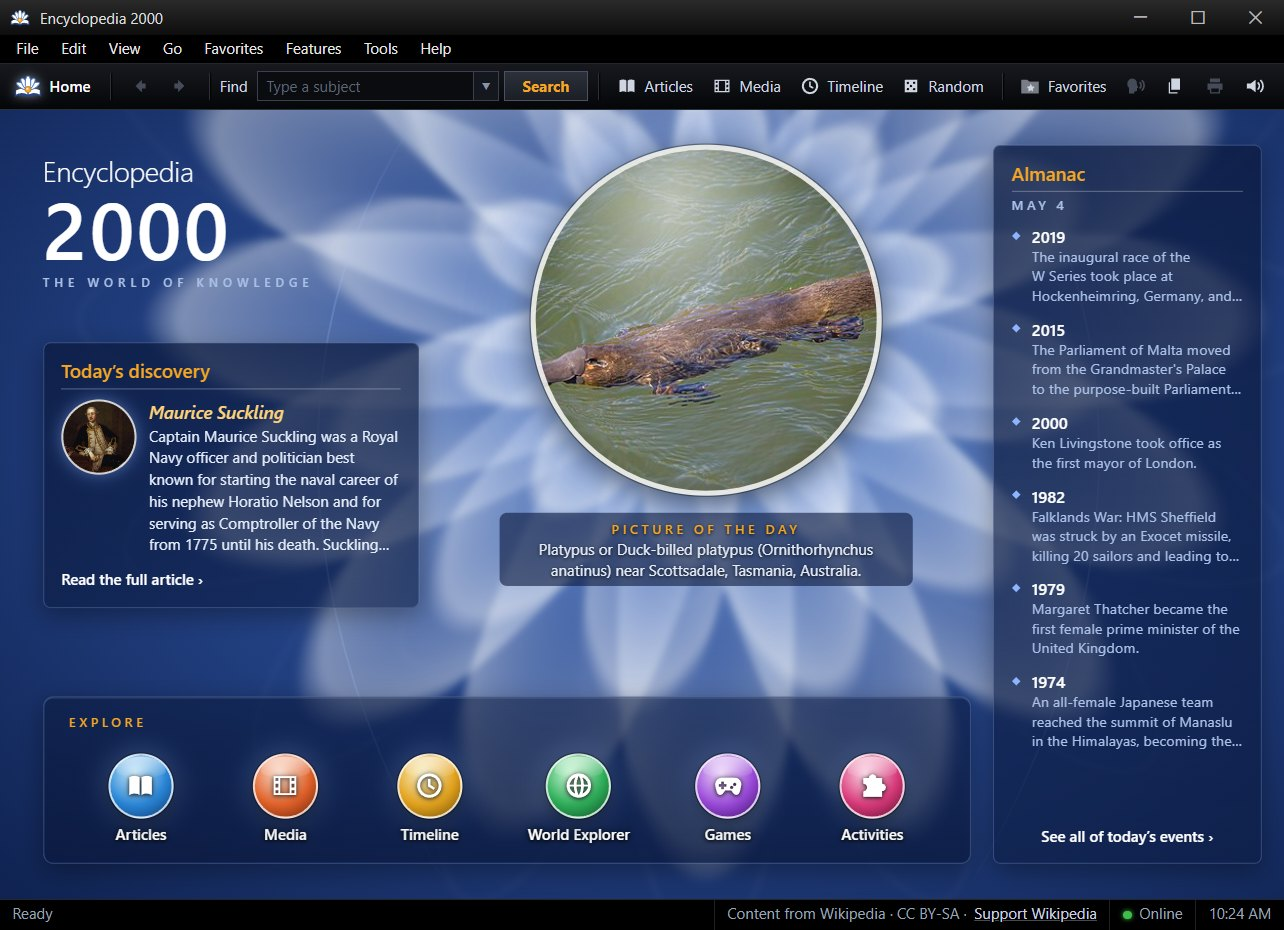
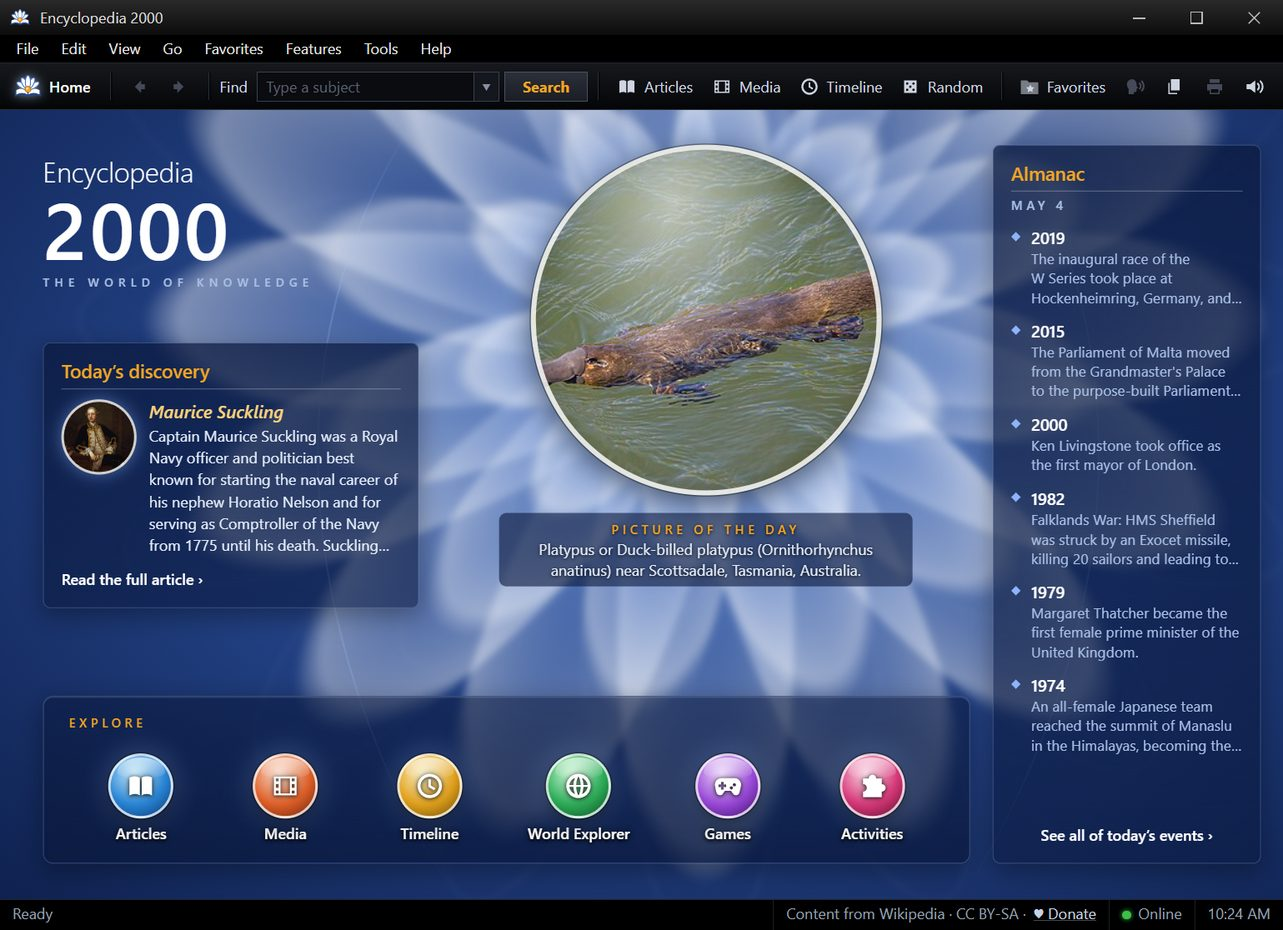
Add a Themes section with a theme switcher, and update the Home screenshot for 0.2

diff --git a/index.html b/index.html
@@ -12,7 +12,7 @@
 <meta name="twitter:card" content="summary_large_image">
 <link rel="icon" href="images/icon-small.svg" type="image/svg+xml">
 <link rel="alternate icon" href="favicon.ico">
-<link rel="stylesheet" href="site.css?v=3">
+<link rel="stylesheet" href="site.css?v=4">
 </head>
 <body>
 
@@ -97,6 +97,27 @@
           <p>Save articles with one click and open them again from the Favorites pane on any screen. A location bar shows where you are, and Back and Forward take you anywhere you've been.</p>
         </div>
       </div>
+    </div>
+  </section>
+
+  <section class="themes" id="themes">
+    <div class="wrap">
+      <div class="head">
+        <p class="eyebrow">Themes</p>
+        <h2>Make it yours</h2>
+        <p>Seven themes, from northern lights to a ’90s desktop. Each one changes the Home screen, the colors, and the startup screen. Articles always stay easy to read. Switch any time in <b>Tools → Themes</b>.</p>
+      </div>
+      <button class="shot" id="theme-shot" data-cap="The Bloom theme: the original glowing bloom on night blue."><img id="theme-img" src="images/themes/bloom.jpg" alt="The Encyclopedia 2000 Home screen in the Bloom theme" loading="lazy" width="1283" height="930"></button>
+      <div class="theme-picks" role="tablist" aria-label="Choose a theme">
+        <button type="button" role="tab" data-theme="bloom" data-name="Bloom" data-blurb="The original: a glowing bloom on night blue." aria-selected="true"><img src="images/themes/thumb-bloom.jpg" alt="" width="320" height="200" loading="lazy"><span>Bloom</span></button>
+        <button type="button" role="tab" data-theme="aurora" data-name="Aurora" data-blurb="Northern lights, stars, and planets." aria-selected="false"><img src="images/themes/thumb-aurora.jpg" alt="" width="320" height="200" loading="lazy"><span>Aurora</span></button>
+        <button type="button" role="tab" data-theme="sunset" data-name="Sunset" data-blurb="A warm evening sky over desert dunes." aria-selected="false"><img src="images/themes/thumb-sunset.jpg" alt="" width="320" height="200" loading="lazy"><span>Sunset</span></button>
+        <button type="button" role="tab" data-theme="disc" data-name="CD-ROM" data-blurb="Silver chrome and a rainbow disc." aria-selected="false"><img src="images/themes/thumb-disc.jpg" alt="" width="320" height="200" loading="lazy"><span>CD-ROM</span></button>
+        <button type="button" role="tab" data-theme="ocean" data-name="Ocean" data-blurb="Light rays and bubbles under the sea." aria-selected="false"><img src="images/themes/thumb-ocean.jpg" alt="" width="320" height="200" loading="lazy"><span>Ocean</span></button>
+        <button type="button" role="tab" data-theme="library" data-name="Library" data-blurb="Wood, parchment, and shelves of books." aria-selected="false"><img src="images/themes/thumb-library.jpg" alt="" width="320" height="200" loading="lazy"><span>Library</span></button>
+        <button type="button" role="tab" data-theme="classic" data-name="Classic Gray" data-blurb="The plain gray look of late-’90s desktops." aria-selected="false"><img src="images/themes/thumb-classic.jpg" alt="" width="320" height="200" loading="lazy"><span>Classic Gray</span></button>
+      </div>
+      <p class="theme-blurb" id="theme-blurb"><b>Bloom</b> · The original: a glowing bloom on night blue.</p>
     </div>
   </section>
 
@@ -278,6 +299,21 @@
   document.querySelectorAll('.os-tabs button').forEach((b) => b.addEventListener('click', () => showOS(b.dataset.os)));
   showOS(guess);
   document.getElementById('hero-os').textContent = 'for ' + OS_NAMES[guess];
+
+  // Themes: the buttons swap the big screenshot. Everything happens on the visitor's device.
+  const themeImg = document.getElementById('theme-img');
+  document.querySelectorAll('.theme-picks button').forEach((b) => {
+    const show = () => {
+      document.querySelectorAll('.theme-picks button').forEach((x) => x.setAttribute('aria-selected', x === b));
+      themeImg.src = 'images/themes/' + b.dataset.theme + '.jpg';
+      themeImg.alt = 'The Encyclopedia 2000 Home screen in the ' + b.dataset.name + ' theme';
+      document.getElementById('theme-shot').dataset.cap = 'The ' + b.dataset.name + ' theme: ' + b.dataset.blurb.charAt(0).toLowerCase() + b.dataset.blurb.slice(1);
+      document.getElementById('theme-blurb').innerHTML = '<b>' + b.dataset.name + '</b> · ' + b.dataset.blurb;
+    };
+    b.addEventListener('click', show);
+    // Start loading a theme's screenshot as soon as the pointer is over its button, so the switch feels instant.
+    b.addEventListener('pointerenter', () => { new Image().src = 'images/themes/' + b.dataset.theme + '.jpg'; }, { once: true });
+  });
 
   // Click any screenshot to see it full size.
   const lb = document.getElementById('lb');

diff --git a/site.css b/site.css
@@ -84,6 +84,16 @@ section { padding-block: 88px; }
 
 /* Feature rows: picture and words side by side, alternating */
 .features { background: linear-gradient(var(--ink-0), var(--ink-1) 30%); }
+.themes { background: var(--ink-1); }
+.themes .shot { max-width: 980px; margin-inline: auto; }
+.theme-picks { display: grid; grid-template-columns: repeat(7, 1fr); gap: 12px; max-width: 980px; margin: 22px auto 0; }
+.theme-picks button { padding: 0 0 8px; border: 1px solid var(--edge); background: rgba(5, 12, 30, .55); color: var(--sky); font: 600 .9rem var(--body); cursor: pointer; }
+.theme-picks button img { display: block; width: 100%; height: auto; margin-bottom: 7px; }
+.theme-picks button:hover { color: #fff; border-color: rgba(245, 166, 35, .6); }
+.theme-picks button[aria-selected="true"] { color: #fff; border-color: var(--orange); box-shadow: 0 0 0 1px var(--orange); }
+.theme-blurb { max-width: 980px; margin: 18px auto 0; text-align: center; color: var(--sky); }
+.theme-blurb b { color: #fff; }
+@media (max-width: 760px) { .theme-picks { grid-template-columns: repeat(4, 1fr); gap: 8px; } .theme-picks button { font-size: .8rem; } }
 .row { display: grid; grid-template-columns: 1.35fr 1fr; gap: 48px; align-items: center; }
 .row + .row { margin-top: 80px; }
 .row.flip { grid-template-columns: 1fr 1.35fr; }

diff --git a/privacy/index.html b/privacy/index.html
@@ -7,7 +7,7 @@
 <meta name="description" content="The Encyclopedia 2000 app has no accounts, ads, analytics, or tracking. Here is what it stores and what it connects to.">
 <link rel="icon" href="../images/icon-small.svg" type="image/svg+xml">
 <link rel="alternate icon" href="../favicon.ico">
-<link rel="stylesheet" href="../site.css?v=3">
+<link rel="stylesheet" href="../site.css?v=4">
 </head>
 <body>
 

diff --git a/press/index.html b/press/index.html
@@ -7,7 +7,7 @@
 <meta name="description" content="Logos, screenshots, facts, and descriptions for writing about Encyclopedia 2000.">
 <link rel="icon" href="../images/icon-small.svg" type="image/svg+xml">
 <link rel="alternate icon" href="../favicon.ico">
-<link rel="stylesheet" href="../site.css?v=3">
+<link rel="stylesheet" href="../site.css?v=4">
 </head>
 <body>
 

diff --git a/404.html b/404.html
@@ -7,7 +7,7 @@
 <meta name="description" content="Page not found.">
 <link rel="icon" href="/images/icon-small.svg" type="image/svg+xml">
 <link rel="alternate icon" href="/favicon.ico">
-<link rel="stylesheet" href="/site.css?v=3">
+<link rel="stylesheet" href="/site.css?v=4">
 </head>
 <body>
 
